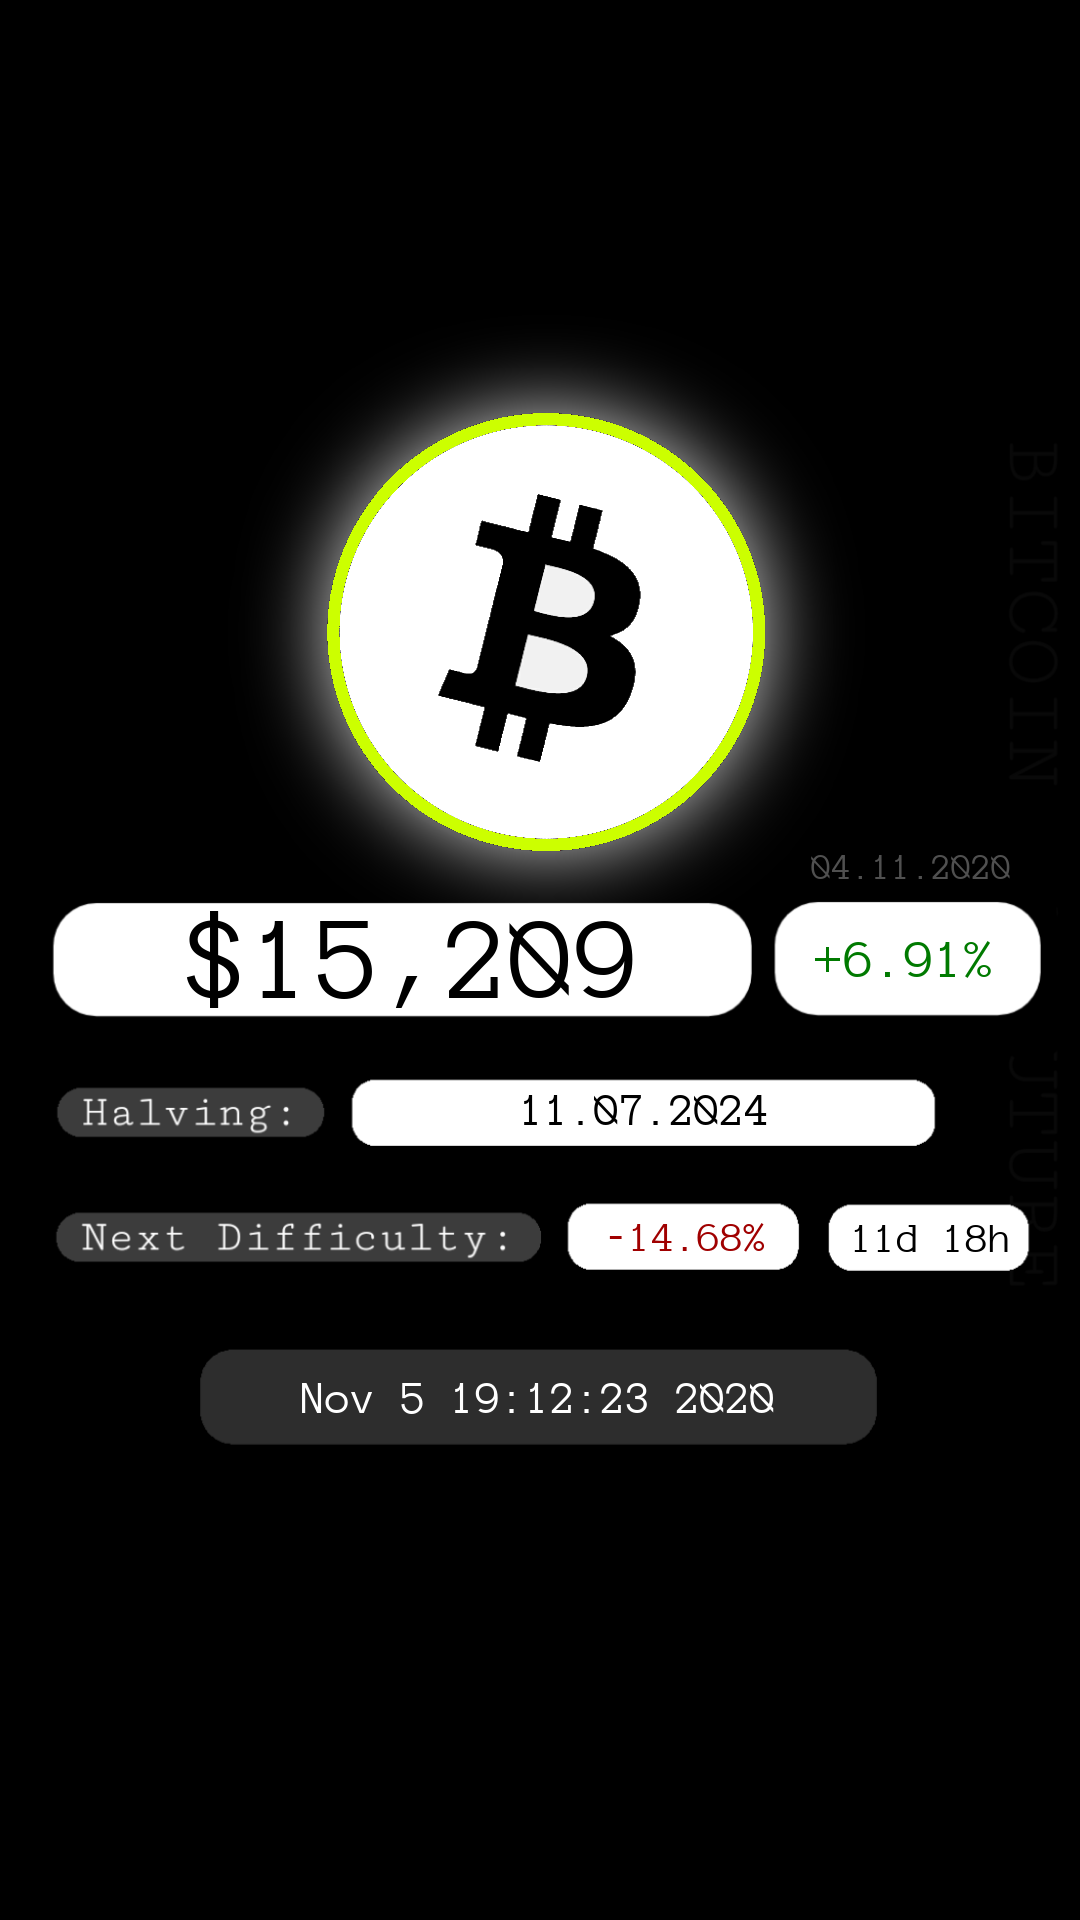
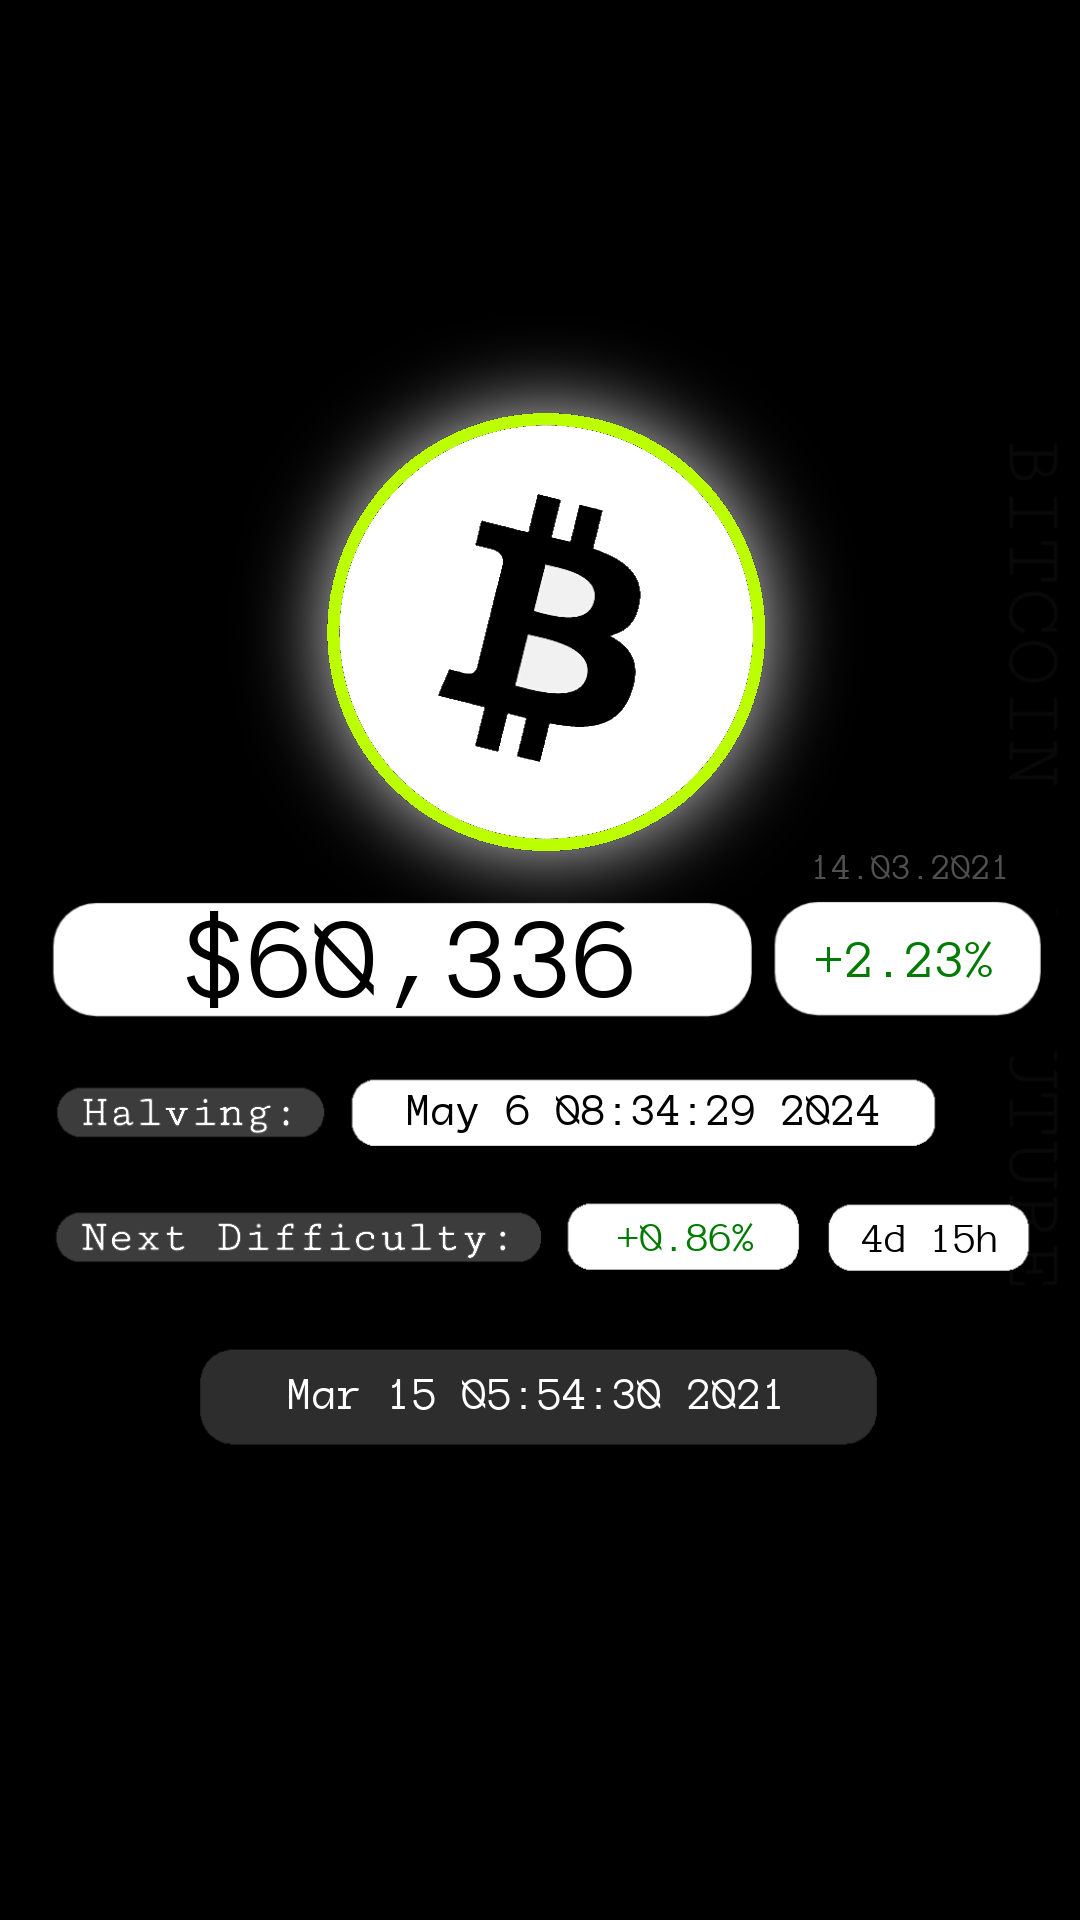
Bugfix

diff --git a/btc_rate.py b/btc_rate.py
@@ -1,7 +1,7 @@
 from PIL import Image, ImageFont, ImageDraw 
 
 from json import loads
-from datetime import datetime, timedelta
+from time import time, ctime
 
 from urllib.request import urlopen
 from bs4 import BeautifulSoup
@@ -23,15 +23,13 @@ def get_fng_color(index: int):
 
 
 fng_link = 'https://api.alternative.me/fng/'
-halving_url = 'https://btc.com/'
 difficulty_url = 'https://m.btc.com/stats/diff'
 curr_price = 'https://api.coindesk.com/v1/bpi/currentprice/btc/.json'
 
-bs4_halving = BeautifulSoup(urlopen(halving_url).read(),'html.parser')
 bs4_difficulty = BeautifulSoup(urlopen(difficulty_url).read(),'html.parser')
 
-halving = bs4_halving.find_all(class_='unconfirmed-tx-item')[-4].getText().split('\n')[2].split('-')
-halving = '.'.join(reversed(halving))
+total_blocks = loads(urlopen('https://blockchain.info/latestblock').read())['height']
+halving = ctime(time() + (210000 - (total_blocks % 210000)) * 10 * 60).replace('  ',' ')[4:]
 
 diff_info = bs4_difficulty.find_all('dd')
 
@@ -72,7 +70,7 @@ per_change = per_symbol + str(
     round(100 - (sorted_rates[0] / sorted_rates[1] * 100),2)
 ) + '%'   
          
-date = datetime.now().ctime().replace('  ',' ')[4:]
+date = ctime().replace('  ',' ')[4:]
 
 rate_text_size = draw.textsize(rate,font=font_rate)
 rate_position = (
@@ -92,11 +90,11 @@ old_rate_date_position = (
 halving_text_size = draw.textsize(halving,font=font_other)
 halving_position = (
     (1080 - halving_text_size[0] + 210) / 2, 
-    (1920 - halving_text_size[1] + 300) / 2
+    (1920 - halving_text_size[1] + 307) / 2
 )
 date_text_size = draw.textsize(date,font=font_other)
 date_position = (
-    (1080 - halving_text_size[0]) / 2.75, 
+    (1080 - halving_text_size[0]) / 2.1,
     (1920 - halving_text_size[1] + 875) / 2
 )
 est_diff_text_size = draw.textsize(
